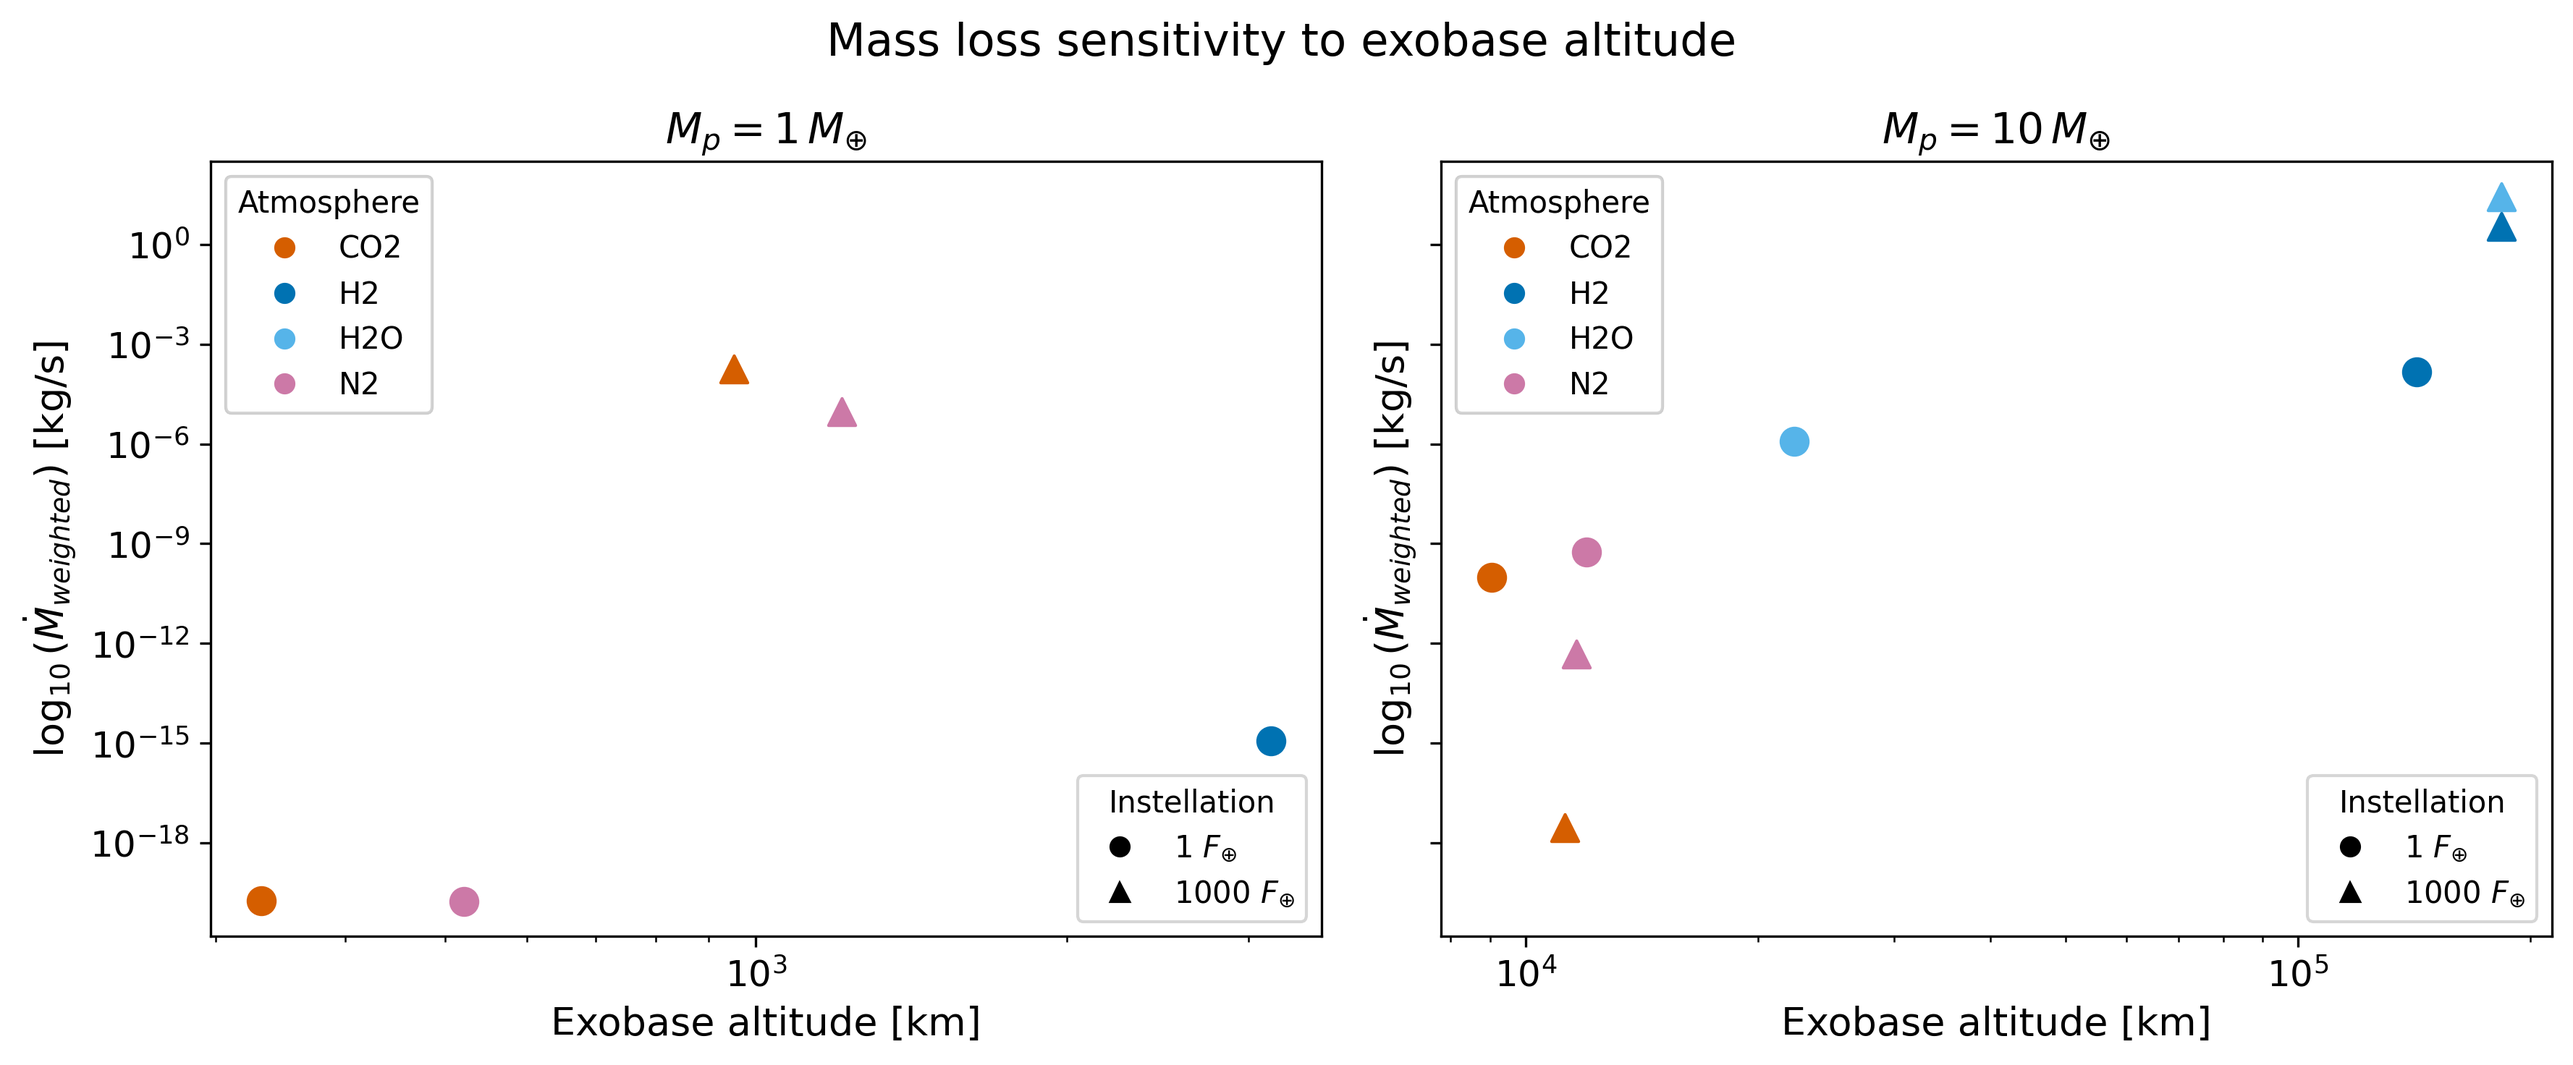
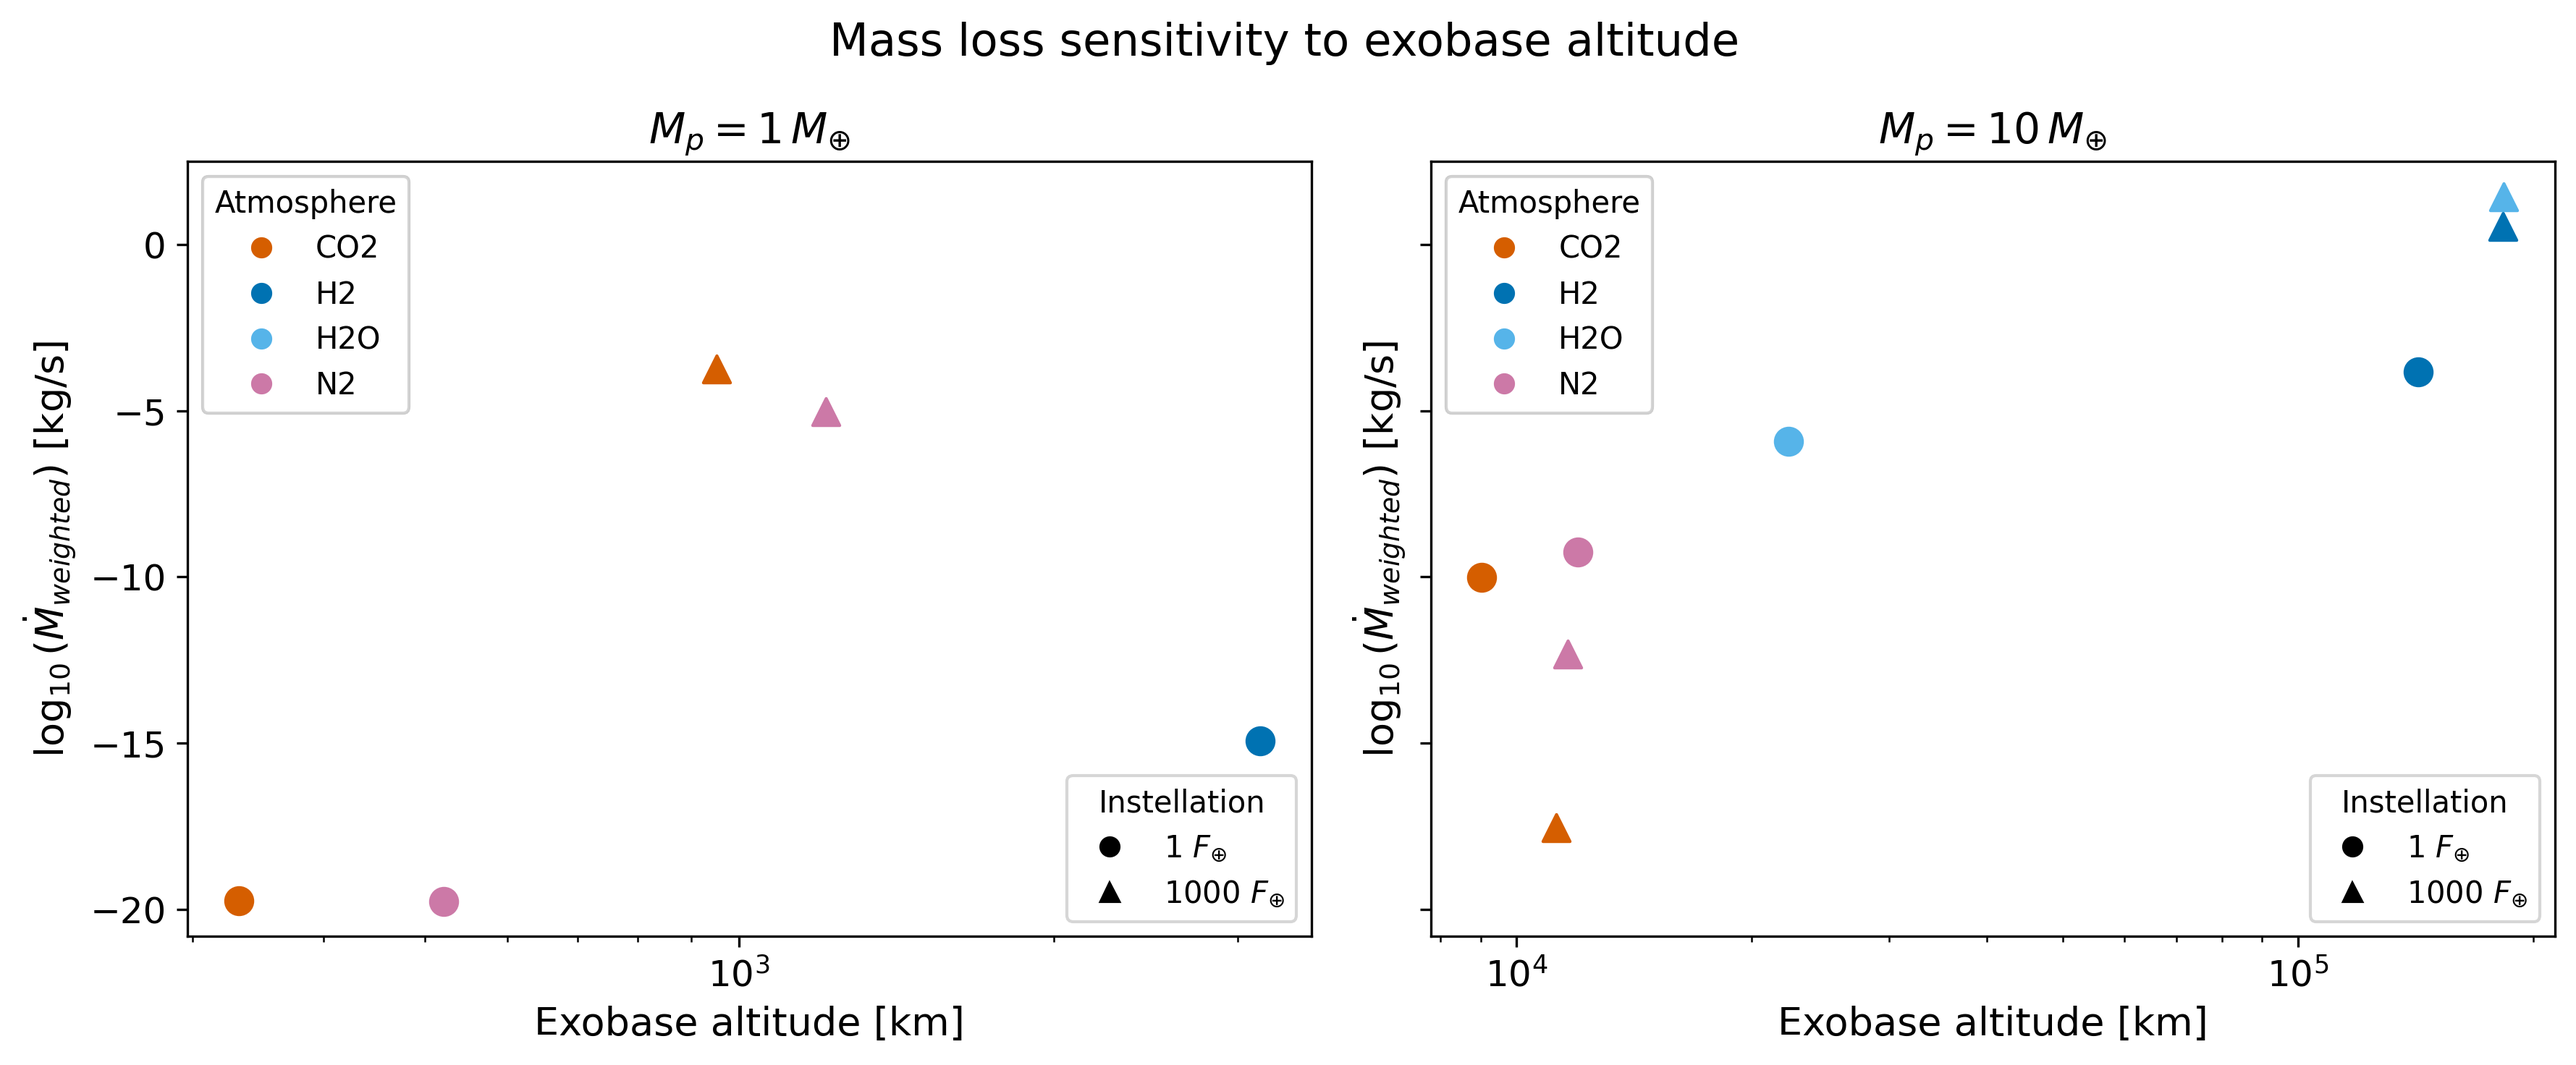
fixed cross section inconsistency

diff --git a/plotter.py b/plotter.py
@@ -187,8 +187,7 @@ for idx, mas in enumerate(mass):
                 marker="o" if inst == "1_F_earth" else "^",
                 s=80,
             )
-
-    ax.set_yscale("log")
+    ax.set_yscale('log')
     ax.set_xlabel("Atmosphere type", fontsize=13)
     ax.set_title(mass_labels[mas], fontsize=14)
     ax.tick_params(axis="both", which="major", labelsize=12)
@@ -273,14 +272,13 @@ for idx, mas in enumerate(mass):
 
             ax.scatter(
                 s["exobase_altitude_km"],
-                s["weighted_mass_loss_kg_s"],
+                np.log10(s["weighted_mass_loss_kg_s"]),
                 color=species_colors.get(atm),
                 marker="o" if inst == "1_F_earth" else "^",
                 s=80,
             )
 
     ax.set_xscale("log")
-    ax.set_yscale("log")
     ax.set_xlabel("Exobase altitude [km]", fontsize=13)
     ax.set_title(mass_labels[mas], fontsize=14)
     ax.tick_params(axis="both", which="major", labelsize=12)

diff --git a/cross_section.py b/cross_section.py
@@ -22,7 +22,7 @@ def effective_cross_section(species):
 
             r_j = PARTICLE_RADII[sp_j]
 
-            sigma_ij = np.pi * (r_i + r_j)**2
+            sigma_ij = np.pi * (r_i + r_j)**2  #from Aeronomy
 
             sigma_eff += X_i * X_j * sigma_ij
 
